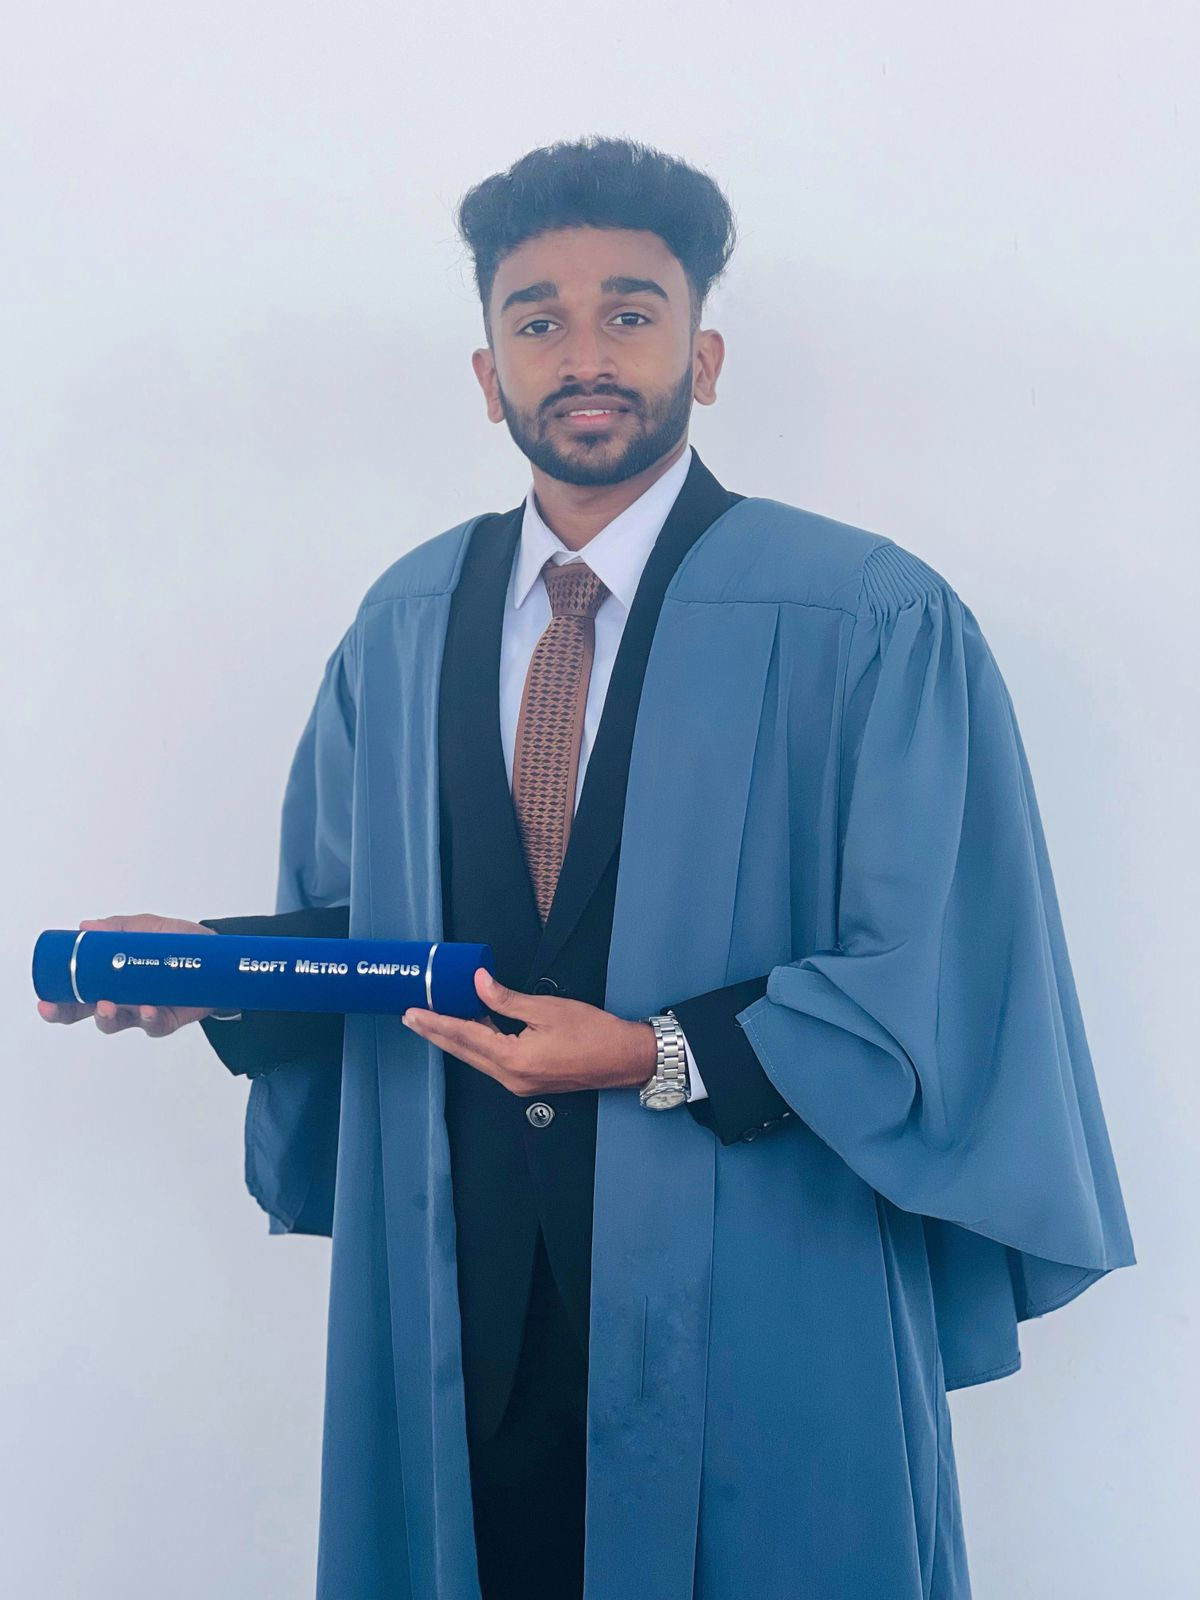
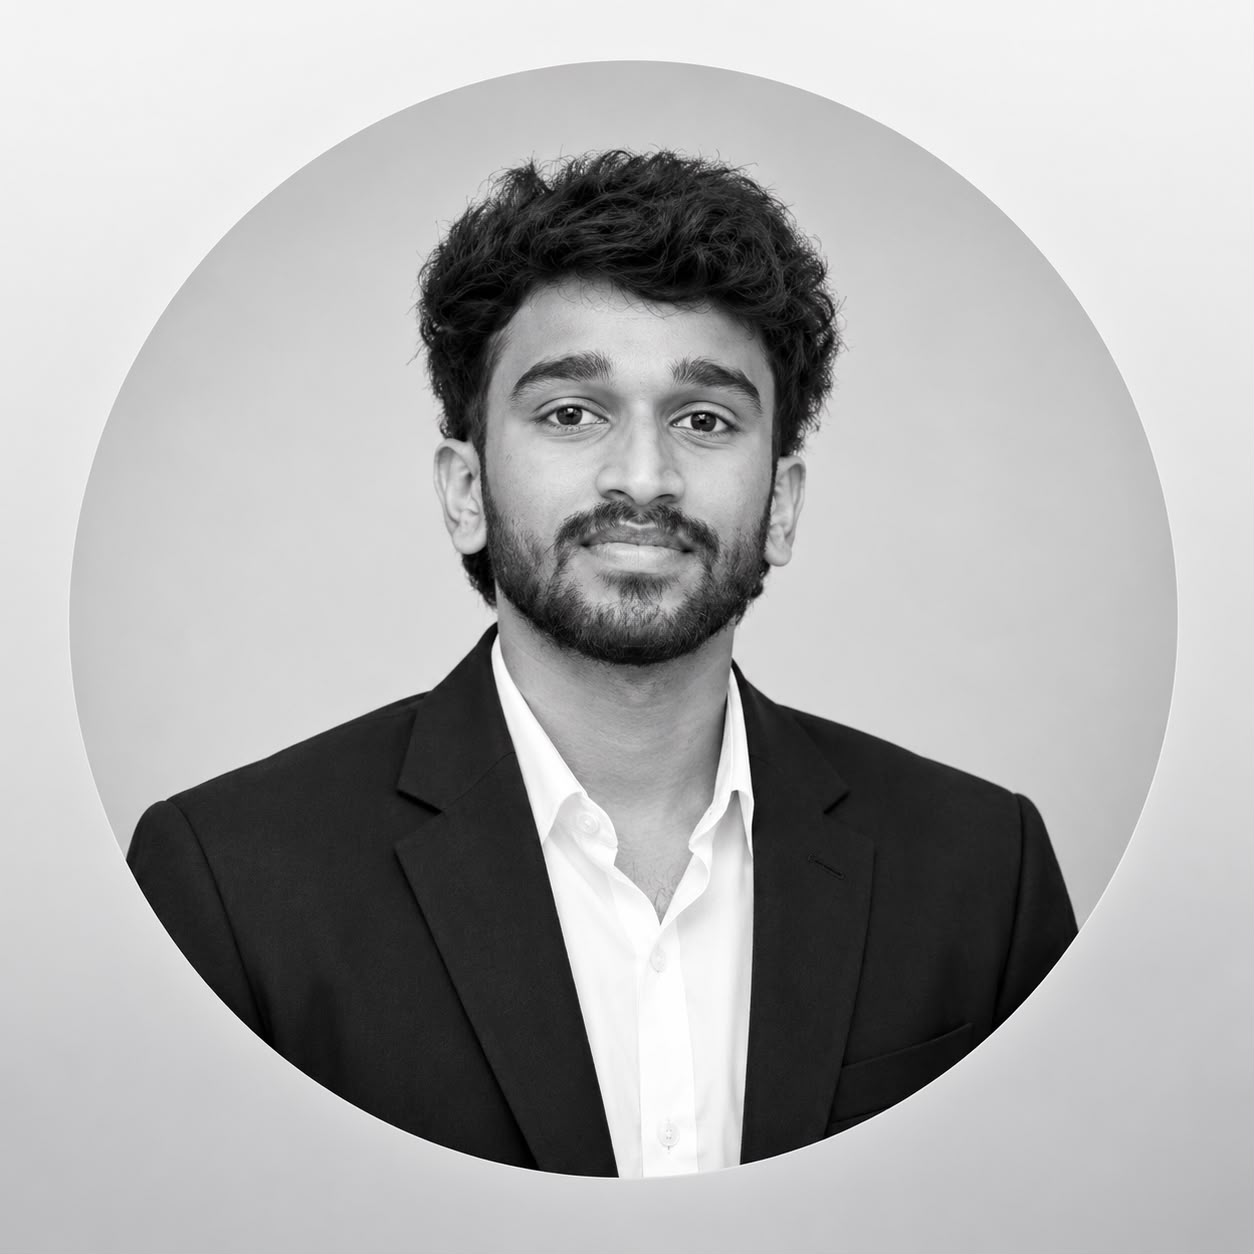
Update profile content and timeline
Replace dp.jpg and overhaul index.html content: rewrite the hero bio to emphasize BEng/HND and full-stack skills, update education timeline entries (dates, institutions, degree titles and order) to correct chronology and details, and adjust minor markup/spacing for the timeline sections.

diff --git a/index.html b/index.html
@@ -33,7 +33,11 @@
         <h3 class="text-animation">I'm a <span></span></h3>
         <p>
           Welcome to my portfolio!  ,<br>
-          I’m a passionate software engineer who completed my HND in Software Engineering at Esoft Metro Campus and am now pursuing my Top-up degree at the same university. With a strong background in coding, I also embrace positive habits like continuous learning, problem-solving, and self-discipline. As a writer, I express creativity through insightful content, blending technology and storytelling.
+          Aspiring Software Engineer with a BEng (Hons) and HND, specializing in full-stack web
+          development using ASP.NET, C#, HTML, and CSS. Combines strong technical coding abilities
+          with the analytical problem-solving and professional discipline gained from a corporate
+          finance role. Passionate about continuous learning and seeking a dynamic internship to
+          build scalable software solutions and contribute to impactful tech projects.
         </p>
 
         <div class="social-icons">
@@ -57,40 +61,16 @@
     <section class="education" id="education">
       <h2 class="heading">Education</h2>
 
-      <div class="timeline-items">
-        <div class="timeline-item">
-          <div class="timeline-dot"></div>
-          <div class="timeline-date">2017 - 2018</div>
-          <div class="timeline-content">
-            <h3>Primary Education</h3>
-            <p>
-              Dehianga Al Azhar C C<br/>
-<b>G.C.E (Ordinary Level) Examination </b>
-
-            </p>
-          </div>
-        </div>
+      
 
         <div class="timeline-item">
           <div class="timeline-dot"></div>
-          <div class="timeline-date">2019 - 2021 (2022)</div>
+          <div class="timeline-date">2025 - 2026 </div>
           <div class="timeline-content">
-            <h3>Secondary Education</h3>
-            <p>
-              Kekunugolla National School<br/>
-<b>G.C.E (Advance Level) Examination </b>
-<b>Engineering Technology Stream</b>
-            </p>
-          </div>
-        </div>
-
-        <div class="timeline-item">
-          <div class="timeline-dot"></div>
-          <div class="timeline-date">2022 </div>
-          <div class="timeline-content">
-            <h3>Binzo Web Design</h3>
+            <h3>BEng (Hons) Software Engineering</h3>
             <p>            
-              Binzo Web Design Course using Wordpress<br/>
+              ESU Kandy<br/>
+              Top-up Awarded by London Metropolitan University (UK). 
             </p>
           </div>
         </div>
@@ -111,11 +91,40 @@
 
         <div class="timeline-item">
           <div class="timeline-dot"></div>
-          <div class="timeline-date">2025 - Present </div>
+          <div class="timeline-date">2022 </div>
           <div class="timeline-content">
-            <h3>BEng (Hons) Software Engineering</h3>
+            <h3>Binzo Web Design</h3>
             <p>            
-              Esoft Metro Campus Kandy<br/>
+              Binzo Web Design Course using Wordpress<br/>
+            </p>
+          </div>
+        </div>
+
+
+
+        <div class="timeline-item">
+          <div class="timeline-dot"></div>
+          <div class="timeline-date">2019 - 2021 (2022)</div>
+          <div class="timeline-content">
+            <h3>Secondary Education</h3>
+            <p>
+              Kekunugolla National School<br/>
+            <b>G.C.E (Advance Level) Examination </b>
+            <b>Engineering Technology Stream</b>
+            </p>
+          </div>
+        </div>
+
+        <div class="timeline-items">
+        <div class="timeline-item">
+          <div class="timeline-dot"></div>
+          <div class="timeline-date">2017 - 2018</div>
+          <div class="timeline-content">
+            <h3>Primary Education</h3>
+            <p>
+              Dehianga Al Azhar C C<br/>
+            <b>G.C.E (Ordinary Level) Examination </b>
+
             </p>
           </div>
         </div>
